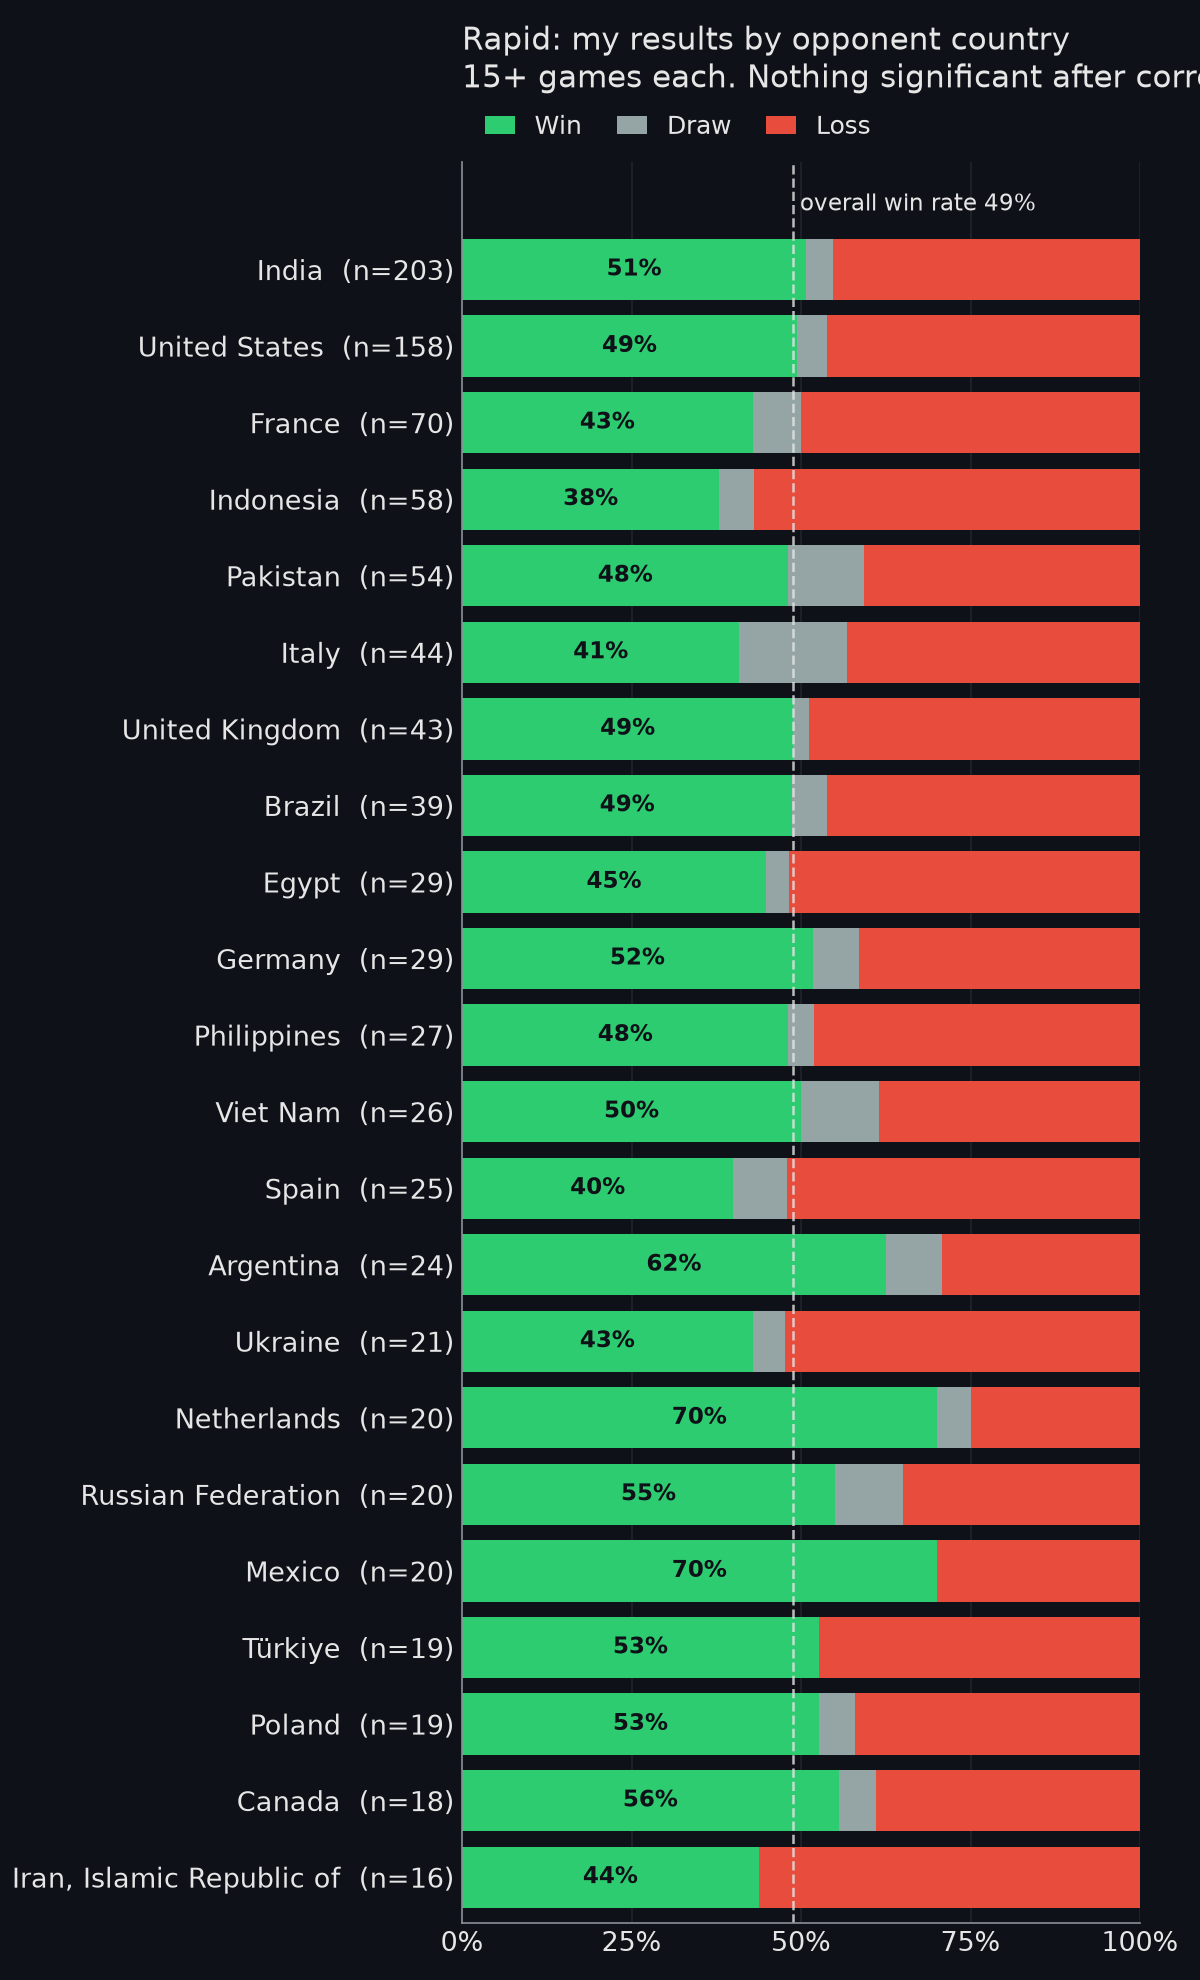
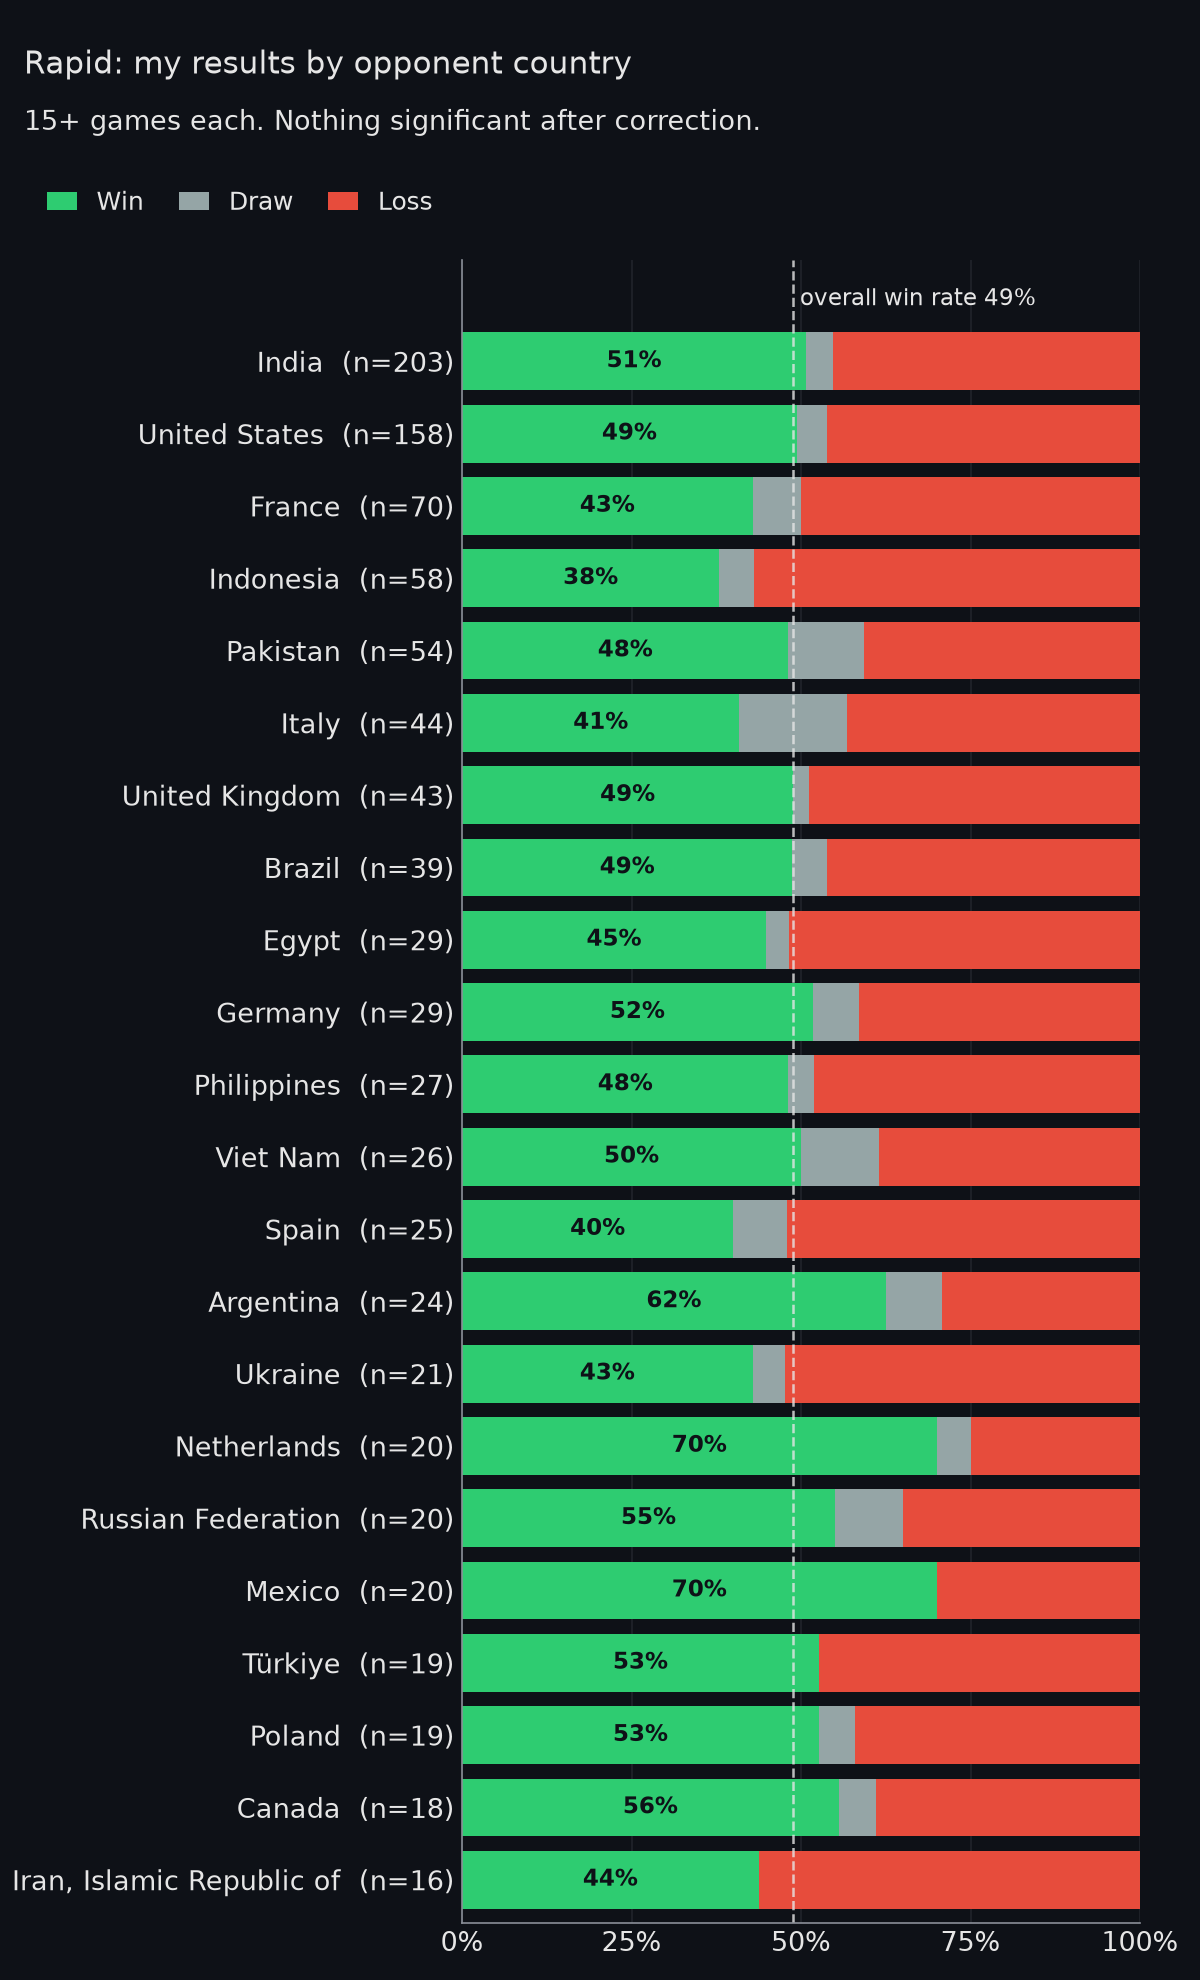
Anchor country-chart title and legend to figure so long labels don't clip

diff --git a/chess_analytics/report.py b/chess_analytics/report.py
@@ -98,15 +98,15 @@ def build_charts(clean_df):
         ax.set_xticks([0, 0.25, 0.5, 0.75, 1])
         ax.set_xticklabels(["0%", "25%", "50%", "75%", "100%"])
         ax.set_ylim(-0.6, n + 0.4)
-        ax.set_title(f"{tc.capitalize()}: my results by opponent country\n"
-                     f"{config.MIN_GAMES}+ games each. Nothing significant after correction.",
-                     color=FG, fontsize=15, loc="left", pad=36)
-        leg = ax.legend(ncol=3, loc="lower left", bbox_to_anchor=(0, 1.0), frameon=False,
-                        fontsize=12, handlelength=1.2, columnspacing=1.4)
+        # title + legend anchored to the figure, not the axes, so a long
+        # country label (which shifts the axes right) can't push them off-canvas
+        fig.text(0.02, 0.975, f"{tc.capitalize()}: my results by opponent country", color=FG, fontsize=15, ha="left", va="top")
+        fig.text(0.02, 0.945, f"{config.MIN_GAMES}+ games each. Nothing significant after correction.", color=FG, fontsize=13, ha="left", va="top")
+        leg = fig.legend(ncol=3, loc="upper left", bbox_to_anchor=(0.02, 0.915), frameon=False, fontsize=12, handlelength=1.2, columnspacing=1.4)
         for t in leg.get_texts():
             t.set_color(FG)
 
-        plt.tight_layout()
+        plt.tight_layout(rect=(0, 0, 1, 0.88))
         plt.savefig(config.CHARTS_DIR / f"outcome_clustered_{tc}.png", dpi=150, facecolor=BG)
         plt.close(fig)
     print(f"Saved charts to {config.CHARTS_DIR}/")

diff --git a/README.md b/README.md
@@ -7,7 +7,7 @@ GitHub Actions.
 The API: https://api.chess.com/pub/player/{username}/games/archives gives you a list of monthly archive URLs, each returning full PGNs with clock times if you played with a clock.
 
 <!-- STATS:START -->
-### Last updated: 2026-10-15 14:55 UTC
+### Last updated: 2026-10-15 15:01 UTC
 
 **Dataset:** 2518 rated games, 2023-02-16 to 2026-10-15
 
